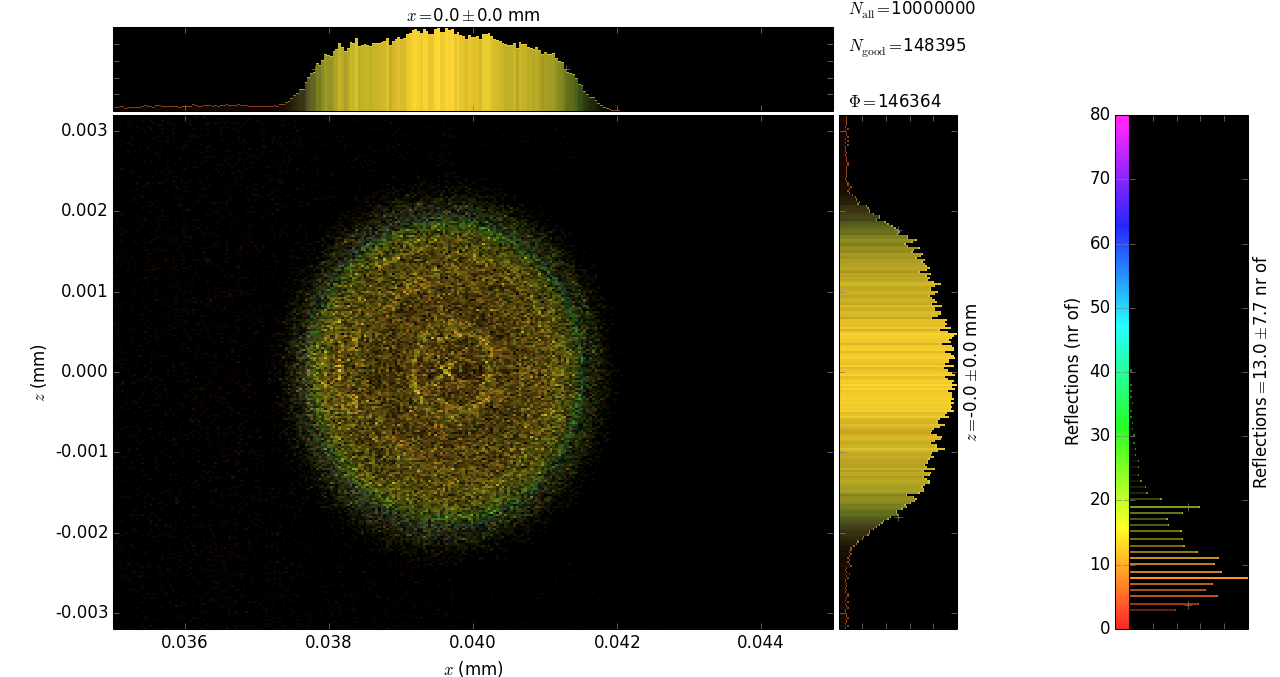
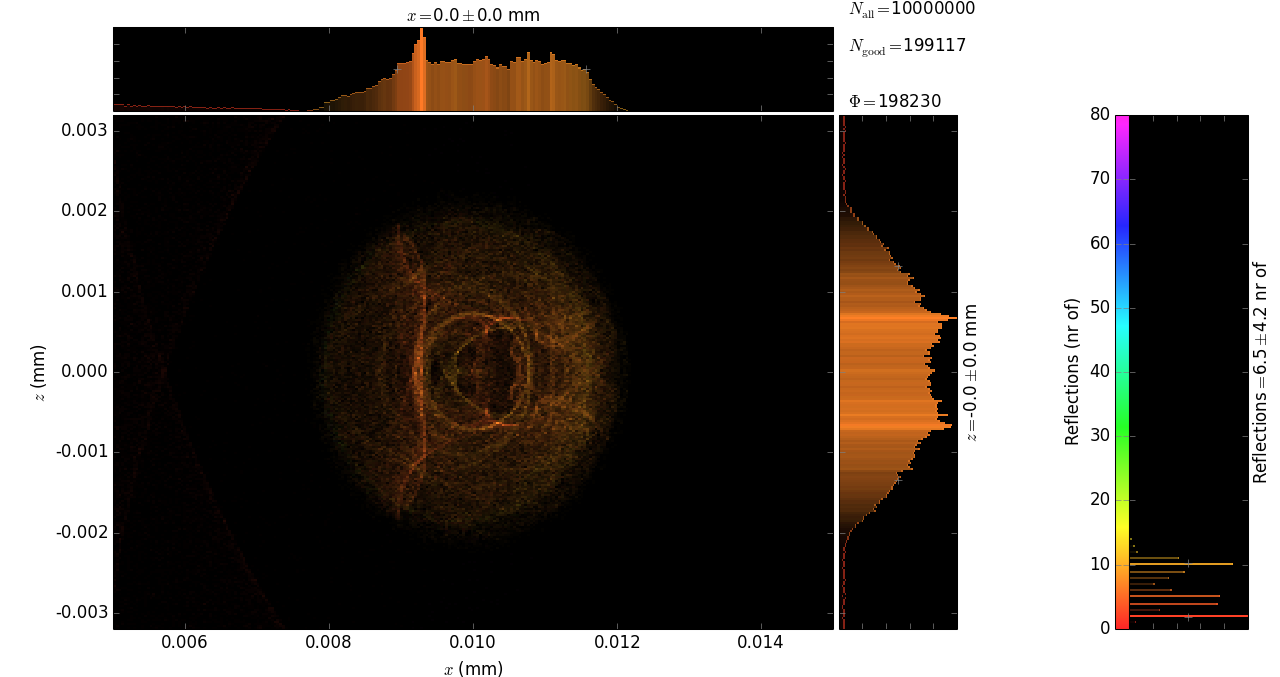
Tapered, bend

diff --git a/simplfiedMonoCapillary.py b/simplfiedMonoCapillary.py
@@ -41,7 +41,7 @@ rOut = 0.002*1
 wall = 0.0005
 
 # parameters for local_x0 function for actual shape definition
-y_in    = 0.04             # entrance height
+y_in    = 0.01             # entrance height
 rS      = float(rSample)    # light source - capillary distance 
 # Cosh parameter for tangential ray entrance
 a_      = -200.0/np.arcsinh(-y_in/rS)
